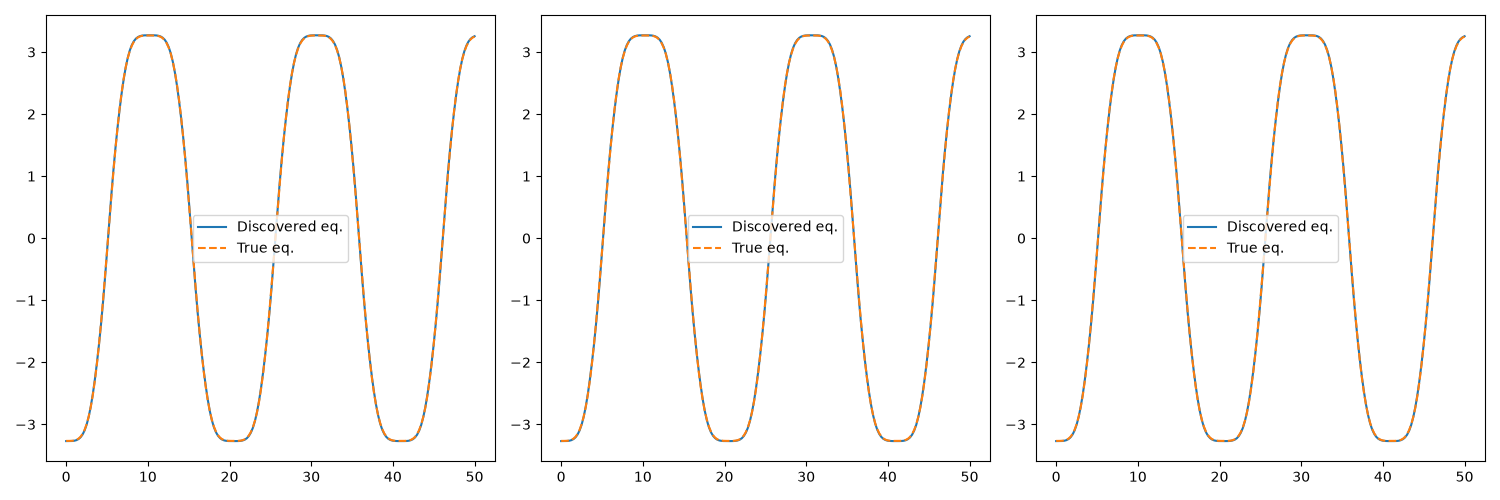
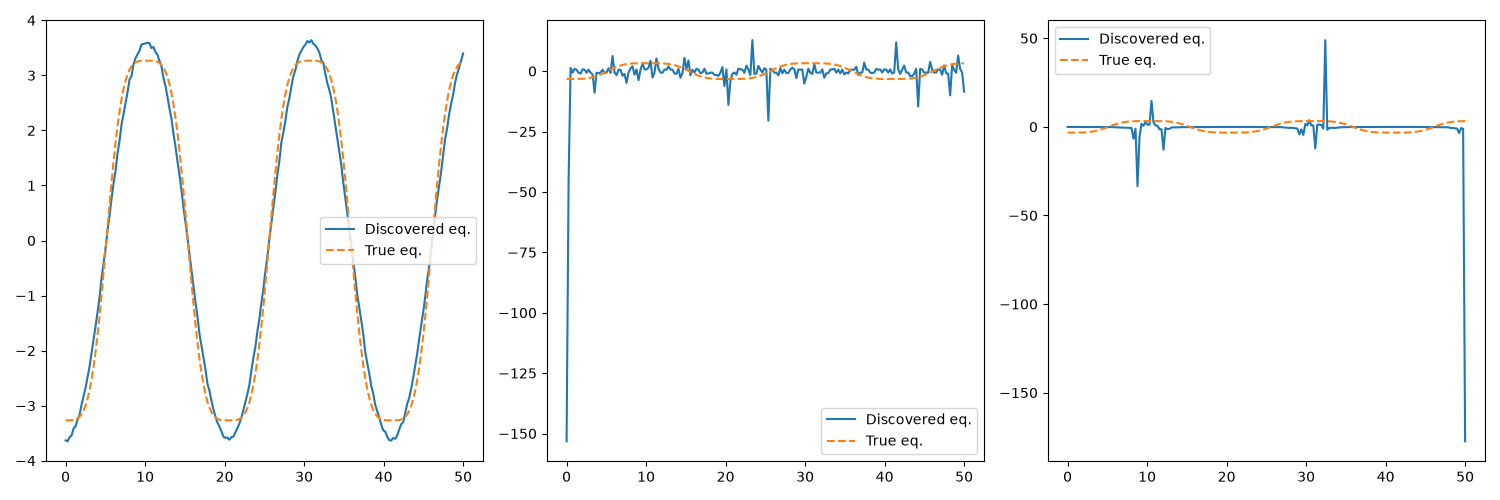
Added Out-of-sample experiment

diff --git a/hrap_report_v3.py b/hrap_report_v3.py
@@ -42,7 +42,8 @@ final_dict = {
     "Discovered Diff eq." : [],
     "MSE of Diff eq." : [],
     "MSE of trajectory" : [],
-    "R^2 trajectory score": []
+    "R^2 trajectory score": [],
+    "Out-of-sample R^2 score": []
 }
 final_table = pd.DataFrame(final_dict)
 trajectories_list = []
@@ -64,6 +65,13 @@ df_moderate = generate_exponential_decay(lambda_val = 0.3, noise_percentage=0.05
 df_noisy = generate_exponential_decay(lambda_val = 0.3, noise_percentage=0.1)
 
 t=df_low["time"].to_numpy()
+# New initial condition for Exponential Decay
+y0_oos_exp = 20.0
+lambda_val = 0.3
+
+# Generating the true analytical trajectory for OOS
+true_trajectory_oos_exp = y0_oos_exp * np.exp(-lambda_val * t)
+
 y_l=df_low["y_noisy"].to_numpy()
 y_m = df_moderate["y_noisy"].to_numpy()
 y_n = df_noisy["y_noisy"].to_numpy()
@@ -90,12 +98,15 @@ for i in range (len(target)):
     trajectories_list.append(trajectory)
     trajectory_loss = mean_squared_error(trajectory, df_low["y_true"].to_numpy())
     r2 = r2_score(df_low["y_true"].to_numpy(), trajectory)
+    trajectory_oos_sr = integrate_pysr_eq([y0_oos_exp], "pt", model.sympy(), t)
+    oos_loss_sr = r2_score(true_trajectory_oos_exp, trajectory_oos_sr)
     new_row = pd.DataFrame([{
         "Method name": f"Exp. Decay: PySR, Noise Level {i+1}",
         "Discovered Diff eq.": model.sympy(),
         "MSE of Diff eq.": loss,
         "MSE of trajectory": trajectory_loss,
-        "R^2 trajectory score": r2
+        "R^2 trajectory score": r2,
+        "Out-of-sample R^2 score": oos_loss_sr
     }])
     final_table = pd.concat([final_table, new_row], ignore_index=True)
 
@@ -112,12 +123,15 @@ for i in data:
     trajectories_list.append(trajectory)
     si_results.append(pysindy_model.predict(i))
     loss = mean_squared_error(si_results[j], decay_true)
+    trajectory_oos_si = pysindy_model.simulate([y0_oos_exp], t)
+    oos_loss = r2_score(true_trajectory_oos_exp, trajectory_oos_si)
     new_row = pd.DataFrame([{
         "Method name": f"Exp. Decay: PySINDy, Noise Level {j + 1}",
         "Discovered Diff eq.": pysindy_model.equations(),
         "MSE of Diff eq.": loss,
         "MSE of trajectory": trajectory_loss,
-        "R^2 trajectory score": r2
+        "R^2 trajectory score": r2,
+        "Out-of-sample R^2 score": oos_loss
     }])
     final_table = pd.concat([final_table, new_row], ignore_index=True)
     j += 1
@@ -138,6 +152,13 @@ def gen_log_growth_data(P0 = 100, r = 1.1, K = 1000, t = 50.0, num_points = 200,
 df_log_l = gen_log_growth_data(noise_percentage=0.01)
 df_log_m = gen_log_growth_data(noise_percentage = 0.05)
 df_log_n = gen_log_growth_data(noise_percentage=0.1)
+
+P0_oos_log = 10.0
+K = 1000.0
+r = 1.1
+
+A_oos = (K - P0_oos_log) / P0_oos_log
+true_trajectory_oos_log = K / (1 + A_oos * np.exp(-r * t))
 
 t = df_log_l["time"].to_numpy()
 dt = t[1] - t[0]
@@ -166,12 +187,15 @@ for i in range (len(target)):
     r2 = r2_score(df_log_l["pop_true"].to_numpy(), trajectory)
     trajectories_list.append(trajectory)
     loss = mean_squared_error(sr_log_results[i], log_true)
+    trajectory_oos_sr = integrate_pysr_eq([P0_oos_log], "pt", model.sympy(), t)
+    oos_loss_sr = r2_score(true_trajectory_oos_log, trajectory_oos_sr)
     new_row = pd.DataFrame([{
         "Method name": f"Log Growth: PySR, Noise Level {i + 1}",
         "Discovered Diff eq.": model.sympy(),
         "MSE of Diff eq.": loss,
         "MSE of trajectory": trajectory_loss,
-        "R^2 trajectory score": r2
+        "R^2 trajectory score": r2,
+        "Out-of-sample R^2 score": oos_loss_sr
     }])
     final_table = pd.concat([final_table, new_row], ignore_index=True)
 
@@ -189,12 +213,15 @@ for i in data:
     r2 = r2_score(df_log_l["pop_true"].to_numpy(), trajectory)
     trajectories_list.append(trajectory)
     loss = mean_squared_error(si_log_results[j], log_true)
+    trajectory_oos_si = pysindy_model.simulate([P0_oos_log], t)
+    oos_loss = r2_score(true_trajectory_oos_log, trajectory_oos_si)
     new_row = pd.DataFrame([{
         "Method name": f"Log Growth: PySINDy, Noise Level {j + 1}",
         "Discovered Diff eq.": pysindy_model.equations(),
         "MSE of Diff eq.": loss,
         "MSE of trajectory": trajectory_loss,
-        "R^2 trajectory score": r2
+        "R^2 trajectory score": r2,
+        "Out-of-sample R^2 score": oos_loss
     }])
     final_table = pd.concat([final_table, new_row], ignore_index=True)
     j += 1
@@ -219,6 +246,15 @@ def gen_pend_data(theta_max = np.pi/2, g = 9.8, L = 3, t_end = 10.0, num_points 
     df = pd.DataFrame({'time': sol.t, 'th_true': th, 'th_noisy': th_noisy})
 
     return df, omega
+
+new_y0 = [np.pi / 4, 0]
+
+def exact_pendulum_oos(t, y):
+    theta, omega = y
+    return [omega, -(9.8 / 3) * np.sin(theta)]
+
+sol_oos = solve_ivp(exact_pendulum_oos, [0, t[-1]], new_y0, t_eval=t)
+true_trajectory_oos = sol_oos.y[0]
 
 df_pen_l, omega_l = gen_pend_data(noise_percentage=0.01)
 df_pen_m, omega_m = gen_pend_data(noise_percentage=0.05)
@@ -255,12 +291,16 @@ for i in range (len(data)):
     trajectories_list.append(trajectory)
     si_pen_results.append(pysindy_model.predict(data[i]))
     loss = mean_squared_error(si_pen_results[i][:, 1], pen_true)
+    X_simulated_oos = pysindy_model.simulate(new_y0, t)
+    trajectory_oos = X_simulated_oos[:, 0]
+    oos_loss = r2_score(true_trajectory_oos, trajectory_oos)
     new_row = pd.DataFrame([{
         "Method name": f"Oscillator: PySINDy, Noise Level {j + 1}",
         "Discovered Diff eq.": pysindy_model.equations(),
         "MSE of Diff eq.": loss,
         "MSE of trajectory": trajectory_loss,
-        "R^2 of trajectory": r2
+        "R^2 trajectory score": r2,
+        "Out-of-sample R^2 score": oos_loss
     }])
     final_table = pd.concat([final_table, new_row], ignore_index=True)
 
@@ -278,12 +318,16 @@ for i in range(len(filtered_data)):
     trajectories_list.append(trajectory)
     si_pen_filtered_results.append(pysindy_model.predict(filtered_data[i]))
     loss = mean_squared_error(si_pen_filtered_results[i][:, 1], pen_true)
+    X_simulated_oos = pysindy_model.simulate(new_y0, t)
+    trajectory_oos = X_simulated_oos[:, 0]
+    oos_loss = r2_score(true_trajectory_oos, trajectory_oos)
     new_row = pd.DataFrame([{
         "Method name": f"Oscillator: PySINDy, Filtered, Noise Level {j + 1}",
         "Discovered Diff eq.": pysindy_model.equations(),
         "MSE of Diff eq.": loss,
         "MSE of trajectory": trajectory_loss,
-        "R^2 of trajectory": r2
+        "R^2 trajectory score": r2,
+        "Out-of-sample R^2 score": oos_loss
     }])
     final_table = pd.concat([final_table, new_row], ignore_index=True)
 
@@ -320,12 +364,18 @@ for i in data: #Review 2: fixed
         # Pad the incomplete trajectory with NaNs
         trajectory = np.pad(trajectory, (0, len(t) - len(trajectory)), constant_values=np.nan)
     trajectories_list.append(trajectory)
+    trajectory_oos_sr = integrate_pysr_eq_2nd_order(new_y0, "th_t", model.sympy(), t)
+    if len(trajectory_oos_sr) == len(t):
+        oos_loss = r2_score(true_trajectory_oos, trajectory_oos_sr)
+    else:
+        oos_loss = np.inf  # Model failed to integrate over the full span
     new_row = pd.DataFrame([{
         "Method name": f"Oscillator: PySR, Noise Level {j + 1}",
         "Discovered Diff eq.": model.sympy(),
         "MSE of Diff eq.": loss,
         "MSE of trajectory": trajectory_loss,
-        "R^2 of trajectory": r2
+        "R^2 trajectory score": r2,
+        "Out-of-sample R^2 score": oos_loss
     }])
     final_table = pd.concat([final_table, new_row], ignore_index=True)
     j += 1
